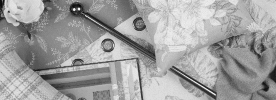
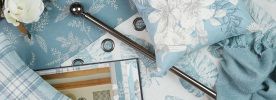
update pics incl slider

diff --git a/web-root/index.html b/web-root/index.html
@@ -56,8 +56,54 @@ All Interiors - Custom made curtains, window treatments and interior furnishings
 
 <div id="wrapper" class="clearfix">
 
-        <div id="featured" class="grid col-940">        
-			<div class="responsive-slider flexslider"><ul class="slides"><li><div id="slide-4" class="slide"><img width="940" height="400" src="wp-content/uploads/2013/04/feature1-940x400.jpg" class="slide-thumbnail wp-post-image" alt="" /><h2 class="slide-title"><a href="index.html" title="We Create Beautiful Living Spaces." >We Create Beautiful Living Spaces.</a></h2></div><!-- #slide-x --></li><li><div id="slide-6" class="slide"><img width="940" height="400" src="wp-content/uploads/2013/04/feature2-940x400.jpg" class="slide-thumbnail wp-post-image" alt="" /><h2 class="slide-title"><a href="index.html" title="Best Choices in custom made curtains, window treatments and interior furnishings" >Best Choices in custom made curtains, window treatments and interior furnishings</a></h2></div><!-- #slide-x --></li></ul></div><!-- #featured-content -->        </div><!-- end of #featured -->
+        <div id="featured" class="grid col-940">
+            <div class="responsive-slider flexslider">
+                <ul class="slides">
+                    <li>
+                        <div id="slide-2" class="slide">
+                            <img width="940" height="500" src="slider-img/slide2.jpg"
+                                class="slide-thumbnail wp-post-image" alt="" />
+                        </div>
+                    </li>
+                    <li>
+                        <div id="slide-1" class="slide">
+                            <img width="940" height="500" src="slider-img/slide1.jpg"
+                                class="slide-thumbnail wp-post-image" alt="" />
+                        </div>
+                    </li>
+                    <li>
+                        <div id="slide-3" class="slide">
+                            <img width="940" height="500" src="slider-img/slide3.jpg"
+                                class="slide-thumbnail wp-post-image" alt="" />
+                        </div>
+                    </li>
+                    <li>
+                        <div id="slide-4" class="slide">
+                            <img width="940" height="500" src="slider-img/slide4.jpg"
+                                class="slide-thumbnail wp-post-image" alt="" />
+                        </div>
+                    </li>
+                    <li>
+                        <div id="slide-5" class="slide">
+                            <img width="940" height="500" src="slider-img/slide5.jpg"
+                                class="slide-thumbnail wp-post-image" alt="" />
+                        </div>
+                    </li>
+                    <li>
+                        <div id="slide-6" class="slide">
+                            <img width="940" height="500" src="slider-img/slide6.jpg"
+                                class="slide-thumbnail wp-post-image" alt="" />
+                        </div>
+                    </li>
+                    <li>
+                        <div id="slide-7" class="slide">
+                            <img width="940" height="500" src="slider-img/slide7.jpg"
+                                class="slide-thumbnail wp-post-image" alt="" />
+                        </div>
+                    </li>
+                </ul>
+            </div><!-- #featured-content -->
+        </div><!-- end of #featured -->
 
             <blockquote style="	border: none; text-align: center;">
  			 <P class="hometext">
